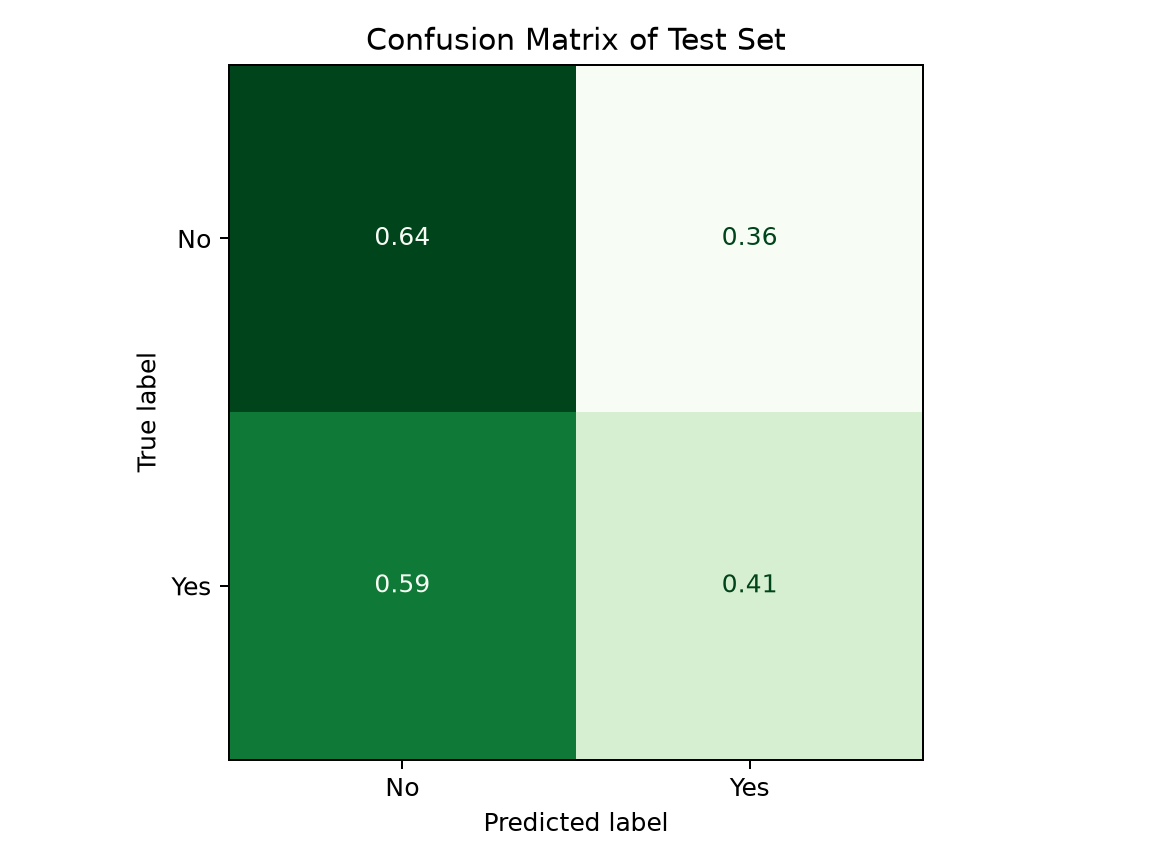
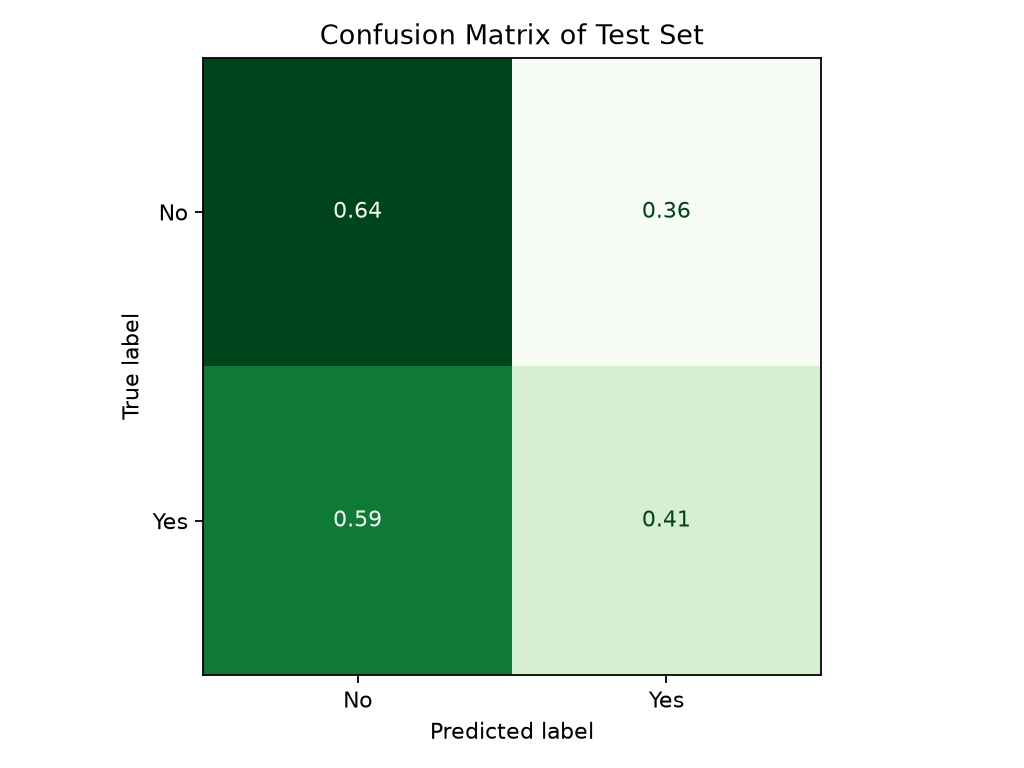
Add: adde remainder of comments

diff --git a/decisionTree.py b/decisionTree.py
@@ -11,6 +11,7 @@ from sklearn.metrics import classification_report, confusion_matrix, accuracy_sc
 
 # Taking the cleaned dataset from preprocess and assinging to the df variable.
 def getData():
+    # call the function to take un processed data, process and clean it and return for use in this file.
     df = returnCleanData()
     return df
 
@@ -120,20 +121,27 @@ def evaluateModel(trainedModel, XTrain, XTest, yTrain, yTest):
     recall_score(trainPrediction, yTest)
     f1_score(trainPrediction, yTest)"""
 
-    return
 
 # This function is used to plot the results of the evaluatemodel to the user.
 def visualiseResults(model, XTest, yTest):
     # Plot the Decision Tree to the user.
+    # create an empty figure 14 inches wide and 6 inches tall.
     plt.figure(figsize=(14,6))
-    plot_tree(model, feature_names=list(XTest.columns), class_names=["No", "Yes"], filled=True, rounded=True, max_depth=2, fontsize=6)
+    # Plot the tree to the figuew
+    # model which we are taking in, it is the trained model from trainModel function
+    # feature_names=list(XTest.columns) shows the two feature columns
+    # class_names=["No", "Yes"] puts the predicted class in each of the boxes
+    # filled=True colours in the boxes by majority class (Orange=No, Blue=Yes)
+    # max_depth=2 only shows the top two levels from the split below root, does not affet model split
+    # fontsize=10 is the text size inside the box
+    plot_tree(model, feature_names=list(XTest.columns), class_names=["No", "Yes"], filled=True, max_depth=2, fontsize=10)
     # Plot the title of the Tree
     plt.title("Decision Tree")
     # Stops overlaps in the diagram without then labels could be clipped and overlapping
     plt.tight_layout()
     # Save the grid as a png file in the figures folder in root.
     # dpi=150 is the resolution, higher value then gives a higher quality image
-    plt.savefig("figures/decisionTree.png", dpi=180)
+    plt.savefig("figures/decisionTree.png", dpi=160)
     # Shows the diagram on the screen to the user.
     plt.show()
 
@@ -148,7 +156,7 @@ def visualiseResults(model, XTest, yTest):
     plt.tight_layout()
     # Save the grid as a png file in the figures folder in root.
     # dpi=150 is the resolution, higher value then gives a higher quality image
-    plt.savefig("figures/confusionMatrix.png", dpi=180)
+    plt.savefig("figures/confusionMatrix.png", dpi=160)
     # Shows the diagram on the screen to the user.
     plt.show()
 
@@ -170,7 +178,7 @@ def visualiseResults(model, XTest, yTest):
     plt.tight_layout()
     # Save the grid as a png file in the figures folder in root.
     # dpi=150 is the resolution, higher value then gives a higher quality image
-    plt.savefig("figures/featureImportance.png", dpi=180)
+    plt.savefig("figures/featureImportance.png", dpi=160)
     # Shows the diagram on the screen to the user.
     plt.show()
 
